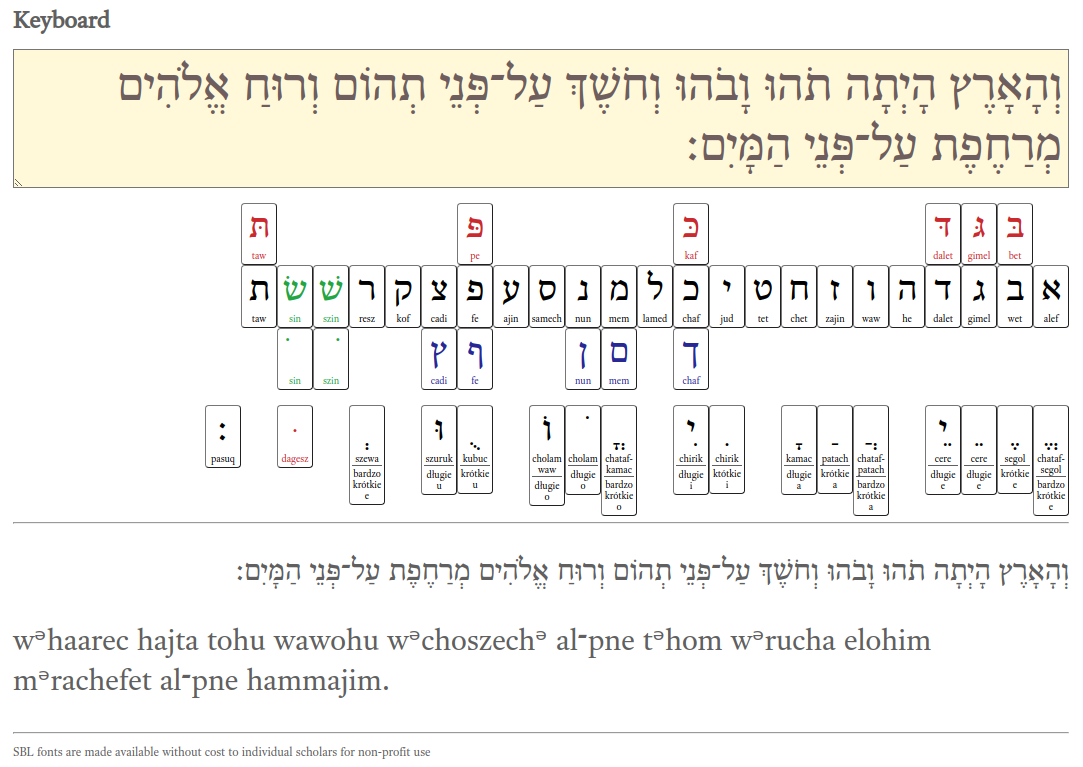
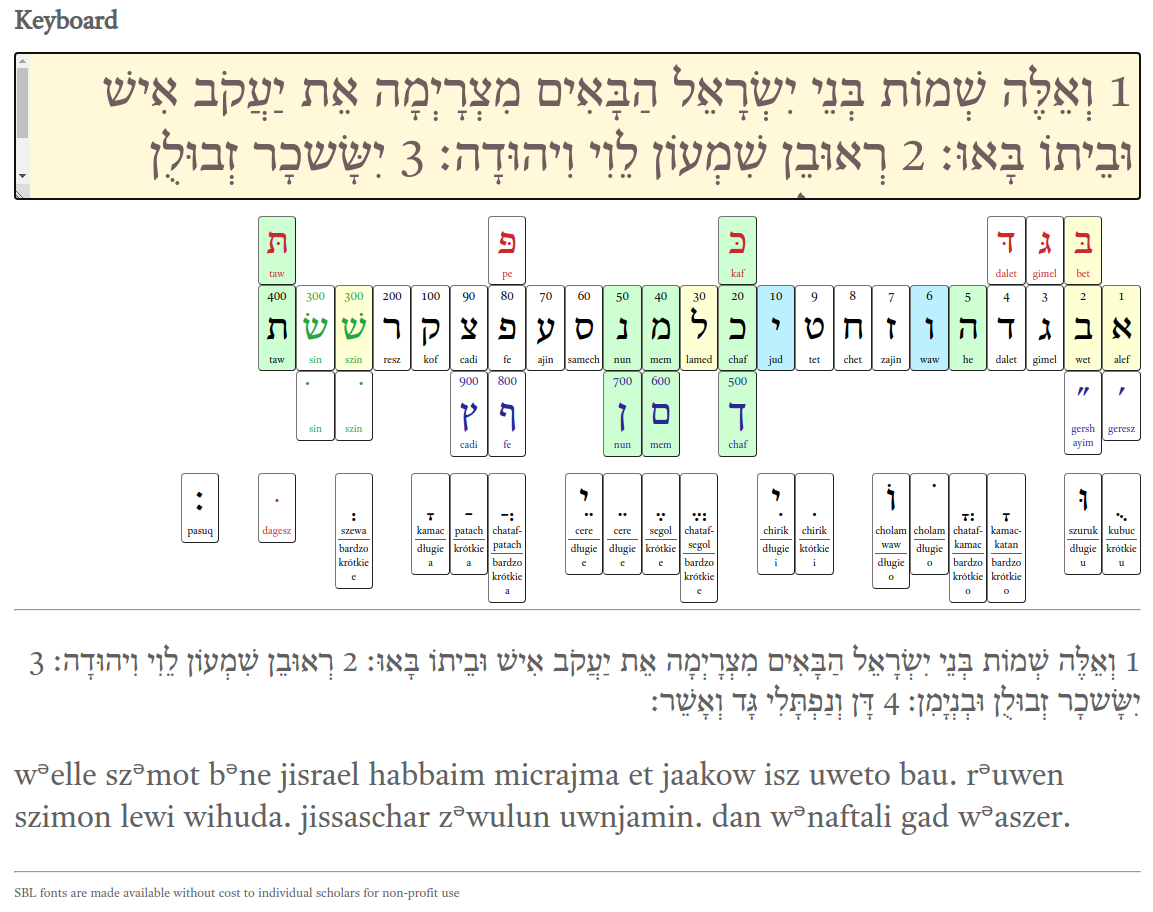
version 0.0.6

Changed region(s): [[0.0, 0.0, 1.0, 0.7797], [0.0, 0.8096, 0.9446, 0.9296], [0.0, 0.9596, 0.3961, 0.9896]]

diff --git a/README.md b/README.md
@@ -2,9 +2,12 @@
 
 Library of simple tools to support work on text in Hebrew (very early alpha)
 
-## Demo
- Simple demo in ./public/keyboard.html file.
+## Demos
 
+ * Simple demo in ./public/interline.html file.
+ ![demo screen](./public/images/interline.png)
+ 
+ * Simple demo in ./public/keyboard.html file.
  ![demo screen](./public/images/demo.png)
  
 ## Test examples
